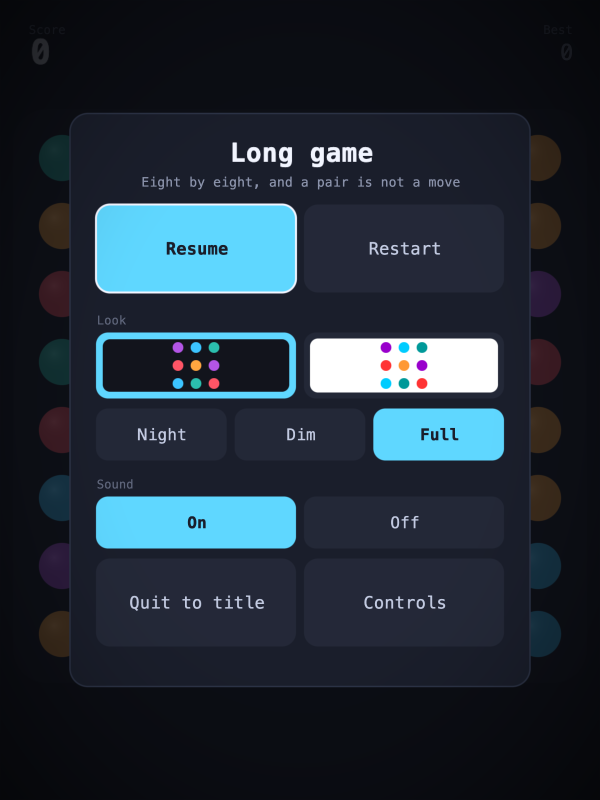
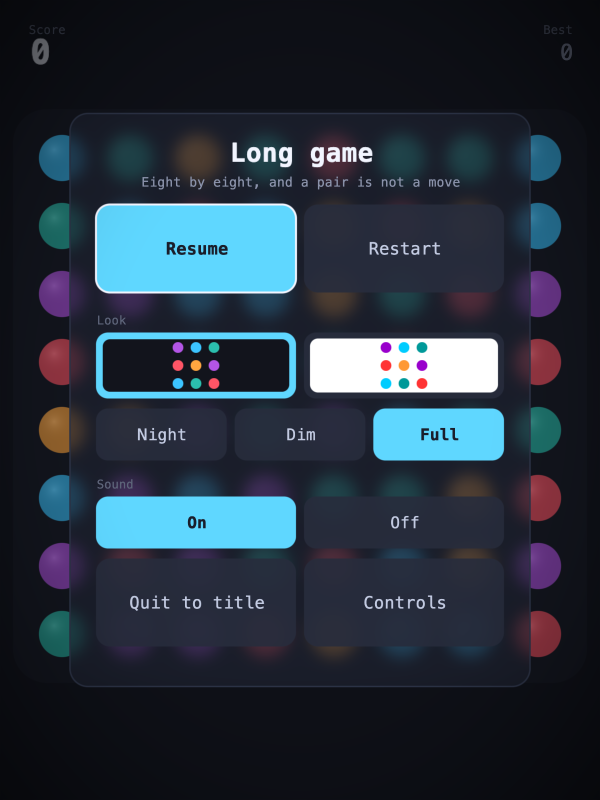
Frost the menu panel, so the game is visible behind it
The menu was a solid panel over the board, which is why choosing a mode
did not appear to preview it: the puzzle mode's first level is six dots
along the bottom of the board, and every one of them was behind the panel.

So the panel is frosted glass now. That needs the frame finished before
the menu is drawn, because a panel showing what is behind it has to have
something to sample: menu primitives record into an overlay layer, the
scene is replayed and blurred, and then the overlay is drawn into it. The
frost fragment samples that blurred copy by gl_FragCoord, since what it
wants is the pixel underneath itself and the copy is in the same space.

It reuses the blur targets the glow already had, which is free: the glow is
blurred afterwards and overwrites them.

The scrim over the rest of the field is lighter to match - it is there to
push the board back, not to hide it - and each theme says how much of its
panel colour to lay over the blur, since dark text needs a paler ground
under it than light text needs over a dark one. Button fills are steadier
than the panel: the panel is glass on purpose, but a label wants a ground
that is not moving under it.

diff --git a/src/glrenderer.js b/src/glrenderer.js
@@ -32,6 +32,7 @@ import {
   SPRITE_FS,
   PANEL_VS,
   PANEL_FS,
+  FROST_FS,
   TEXT_VS,
   TEXT_FS,
   FSTRI_VS,
@@ -193,6 +194,18 @@ const LAYOUTS = {
     ],
     blend: "over",
   },
+  // The same vertices as a panel; only the fragment differs, so a frosted panel is
+  // built by the same code and drawn by a different program.
+  frost: {
+    stride: 12,
+    attrs: [
+      [0, 2],
+      [1, 2],
+      [2, 4],
+      [3, 4],
+    ],
+    blend: "over",
+  },
   text: {
     stride: 8,
     attrs: [
@@ -240,8 +253,13 @@ export class WebGLRenderer extends Renderer {
     // it. Builders write straight in; nothing reaches the GPU until endFrame.
     this.layers = {
       scene: this.#freshLayer(),
+      // Drawn after the scene has been finished and blurred, which is what lets a
+      // frosted panel sample what is behind it.
+      overlay: this.#freshLayer(),
       glow: this.#freshLayer(),
     }
+    // Which of the two the primitives are being recorded into.
+    this.target = "scene"
 
     this.#buildGpuState()
 
@@ -286,6 +304,7 @@ export class WebGLRenderer extends Renderer {
       ribbon: program(gl, RIBBON_VS, RIBBON_FS),
       sprite: program(gl, SPRITE_VS, SPRITE_FS),
       panel: program(gl, PANEL_VS, PANEL_FS),
+      frost: program(gl, PANEL_VS, FROST_FS),
       text: program(gl, TEXT_VS, TEXT_FS),
       blur: program(gl, FSTRI_VS, BLUR_FS),
       blit: program(gl, FSTRI_VS, BLIT_FS),
@@ -368,6 +387,7 @@ export class WebGLRenderer extends Renderer {
   // ---- frame lifecycle ----------------------------------------------------
   beginFrame(time) {
     this.time = time
+    this.target = "scene"
     for (const layer of Object.values(this.layers)) {
       layer.count = 0
       layer.commands.length = 0
@@ -380,9 +400,16 @@ export class WebGLRenderer extends Renderer {
     this.clearColour = parseColour(color)
   }
 
+  // Everything from here goes over a finished frame rather than into it. Called by the
+  // view before it draws a menu, so a frosted panel has something blurred to show.
+  beginOverlay() {
+    this.target = "overlay"
+  }
+
   endFrame() {
     const gl = this.gl
     this.#closeCommand(this.layers.scene)
+    this.#closeCommand(this.layers.overlay)
     this.#closeCommand(this.layers.glow)
 
     const c = this.clearColour
@@ -391,6 +418,15 @@ export class WebGLRenderer extends Renderer {
     gl.clearColor(c[0], c[1], c[2], 1)
     gl.clear(gl.COLOR_BUFFER_BIT)
     this.#replay(this.layers.scene, false)
+
+    // Anything drawn over the finished frame, with a blurred copy of that frame ready
+    // for whatever wants to frost itself against it.
+    if (this.layers.overlay.commands.length > 0) {
+      this.#blurBehind()
+      gl.bindFramebuffer(gl.FRAMEBUFFER, this.scene.fbo)
+      gl.viewport(0, 0, this.scene.w, this.scene.h)
+      this.#replay(this.layers.overlay, false)
+    }
 
     // The glow layer starts from nothing: it is light to be added, so anywhere
     // the view asked for none must contribute none.
@@ -445,7 +481,7 @@ export class WebGLRenderer extends Renderer {
   // once for the scene and again into the glow layer when the primitive glows,
   // with its colour scaled by how much.
   #emit(progName, colour, glow, build) {
-    const scene = this.layers.scene
+    const scene = this.layers[this.target]
     this.#use(scene, progName)
     build(scene, colour)
     if (glow > 0) {
@@ -480,6 +516,10 @@ export class WebGLRenderer extends Renderer {
           gl.activeTexture(gl.TEXTURE0)
           gl.bindTexture(gl.TEXTURE_2D, this.atlasTex)
           gl.uniform1i(this.#uniform(prog, "uAtlas"), 0)
+        }
+        if (command.prog === "frost") {
+          this.#bindTex(prog, "uBehind", this.blurA.tex, 0)
+          gl.uniform2f(this.#uniform(prog, "uSize"), this.scene.w, this.scene.h)
         }
         boundProg = prog
       }
@@ -746,6 +786,10 @@ export class WebGLRenderer extends Renderer {
     return normals
   }
 
+  // `frost` draws the panel as frosted glass instead of a flat fill: what is behind it
+  // shows through blurred, tinted toward the fill by `alpha`. Only meaningful between
+  // beginOverlay and the end of the frame, since that is when there is a blurred copy
+  // of the frame to sample.
   panel(x, y, w, h, opts = {}) {
     const stroke = opts.stroke != null
     const colour = this.#colour({
@@ -761,7 +805,7 @@ export class WebGLRenderer extends Renderer {
     const shape = [halfW, halfH, radius, border]
     const cx = x + halfW
     const cy = y + halfH
-    this.#emit("panel", colour, opts.glow || 0, (layer, col) => {
+    this.#emit(opts.frost ? "frost" : "panel", colour, opts.glow || 0, (layer, col) => {
       this.#reserve(layer, 6 * 12)
       const data = layer.data
       const corner = (dx, dy) => {
@@ -880,6 +924,25 @@ export class WebGLRenderer extends Renderer {
   }
 
   // ---- post processing ----------------------------------------------------
+  // A blurred copy of the frame as it stands, for anything drawn over it to frost
+  // against. Shares the scratch targets with the glow blur, which happens later and
+  // overwrites them.
+  #blurBehind() {
+    const gl = this.gl
+    gl.disable(gl.BLEND)
+    gl.bindVertexArray(this.emptyVao)
+    gl.bindFramebuffer(gl.FRAMEBUFFER, this.blurA.fbo)
+    gl.viewport(0, 0, this.blurA.w, this.blurA.h)
+    gl.useProgram(this.progs.blit)
+    this.#bindTex(this.progs.blit, "uTex", this.scene.tex, 0)
+    gl.drawArrays(gl.TRIANGLES, 0, 3)
+    for (let pass = 0; pass < 2; pass++) {
+      this.#blurPass(this.blurA, this.blurB, [1.6 / this.blurA.w, 0])
+      this.#blurPass(this.blurB, this.blurA, [0, 1.6 / this.blurA.h])
+    }
+    gl.enable(gl.BLEND)
+  }
+
   #blurGlow() {
     const gl = this.gl
     gl.disable(gl.BLEND)

diff --git a/src/view.js b/src/view.js
@@ -521,10 +521,17 @@ export class GameView {
     const height = contentHeight + headerHeight + PANEL_PAD
     const y = clamp((VIEW_H - height) / 2, 12, Math.max(12, VIEW_H - height - 12))
 
-    // The board stays visible behind the panel, dimmed rather than hidden: a menu is
-    // over the game, not instead of it.
+    // A menu goes over a finished frame rather than into it, which is what lets the
+    // panel frost itself against a blurred copy of the board: the game stays visible
+    // behind the menu instead of being replaced by it.
+    renderer.beginOverlay()
     renderer.panel(0, 0, VIEW_W, VIEW_H, { fill: theme.scrim.color, alpha: theme.scrim.alpha })
-    renderer.panel(x, y, width, height, { fill: theme.panel, radius: 18 })
+    renderer.panel(x, y, width, height, {
+      frost: true,
+      fill: theme.panel,
+      alpha: theme.frost,
+      radius: 18,
+    })
     renderer.panel(x, y, width, height, { stroke: theme.panelEdge, width: 1.5, radius: 18 })
 
     // Headings are drawn from the middle of their line, so what sets how far the first
@@ -605,7 +612,9 @@ export class GameView {
       renderer.panel(box.x, box.y, box.w, box.h, {
         fill: filled ? theme.accent : theme.cell,
         radius: 14,
-        alpha: filled ? 1 : 0.75,
+        // Steadier than the panel behind it: the panel is glass on purpose, but a label
+        // wants a ground that is not moving under it.
+        alpha: filled ? 1 : 0.92,
       })
       if (under) {
         renderer.panel(box.x, box.y, box.w, box.h, {
@@ -705,7 +714,7 @@ export class GameView {
       renderer.panel(box.x, box.y, box.w, box.h, {
         fill: chosen ? theme.accent : theme.cell,
         radius: 12,
-        alpha: chosen ? 1 : 0.7,
+        alpha: chosen ? 1 : 0.9,
       })
       if (onRow && chosen) {
         renderer.panel(box.x, box.y, box.w, box.h, {

diff --git a/src/shaders.js b/src/shaders.js
@@ -240,6 +240,33 @@ export const PANEL_FS = `#version 300 es
     frag = vec4(vColor.rgb * a, a);
   }`
 
+// Frosted glass: a rounded panel that shows a blurred copy of what is behind it,
+// tinted toward its own colour. The blur is of the scene as it stood before the menu
+// was drawn, which is why the menu is recorded as a separate layer - the frame has to
+// be finished and blurred before a panel can sample it.
+//
+// It samples by gl_FragCoord rather than by an interpolated coordinate, because what it
+// wants is the pixel underneath itself, and the blurred copy is in the same space as the
+// target being drawn into.
+export const FROST_FS = `#version 300 es
+  precision highp float;
+  uniform sampler2D uBehind;
+  uniform vec2 uSize;        // the target's size in pixels, to turn a fragment into a uv
+  in vec2 vLocal; in vec4 vShape; in vec4 vColor;
+  out vec4 frag;
+  void main() {
+    vec2 inner = max(vShape.xy - vShape.z, vec2(0.0));
+    vec2 q = abs(vLocal) - inner;
+    float d = min(max(q.x, q.y), 0.0) + length(max(q, vec2(0.0))) - vShape.z;
+    float aa = max(fwidth(d), 1e-5);
+    float cov = 1.0 - smoothstep(-aa, aa, d);
+    vec3 behind = texture(uBehind, gl_FragCoord.xy / uSize).rgb;
+    // The alpha carries how much of the panel's own colour to lay over what is behind
+    // it: none of it would be a window, all of it would be a wall.
+    vec3 col = mix(behind, vColor.rgb, vColor.a);
+    frag = vec4(col * cov, cov);
+  }`
+
 // Text from the monospace atlas, whose coverage is stored in the red channel.
 export const TEXT_VS = `#version 300 es
   precision highp float;

diff --git a/src/palette.js b/src/palette.js
@@ -34,9 +34,12 @@ const DARK = {
   cursorActive: "#f2f5ff",
   accent: "#5fd7ff",
   warn: "#ff6b6b",
-  // What is laid over the board while a menu is up. It has to darken, which on a dark
-  // field is very nearly the field itself.
-  scrim: { color: "#0a0c12", alpha: 0.8 },
+  // What is laid over the board while a menu is up: enough to push it back, not enough
+  // to hide it. The panel itself is frosted, so the board reads through both.
+  scrim: { color: "#0a0c12", alpha: 0.45 },
+  // How much of the panel's own colour is laid over the blurred board behind it. None
+  // would be a window, all of it a wall.
+  frost: 0.78,
   // How much light the whole theme throws into the bloom pass. Dark is where the
   // glow belongs, so it gets all of it.
   bloom: 1,
@@ -73,7 +76,10 @@ const LIGHT = {
   warn: "#d92b3f",
   // A little ink rather than a lot of the background: dimming a white field with white
   // does not dim it, it bleaches whatever is on it.
-  scrim: { color: "#181b25", alpha: 0.22 },
+  scrim: { color: "#181b25", alpha: 0.12 },
+  // Higher than the dark theme's: dark text needs a paler ground under it than light
+  // text needs over a dark one.
+  frost: 0.82,
   // A glow laid over white does not read as light, it reads as desaturation: these
   // dot colours already have a channel at full scale, so adding to them only lifts
   // the other two and turns red into pink. The light theme therefore takes a little
